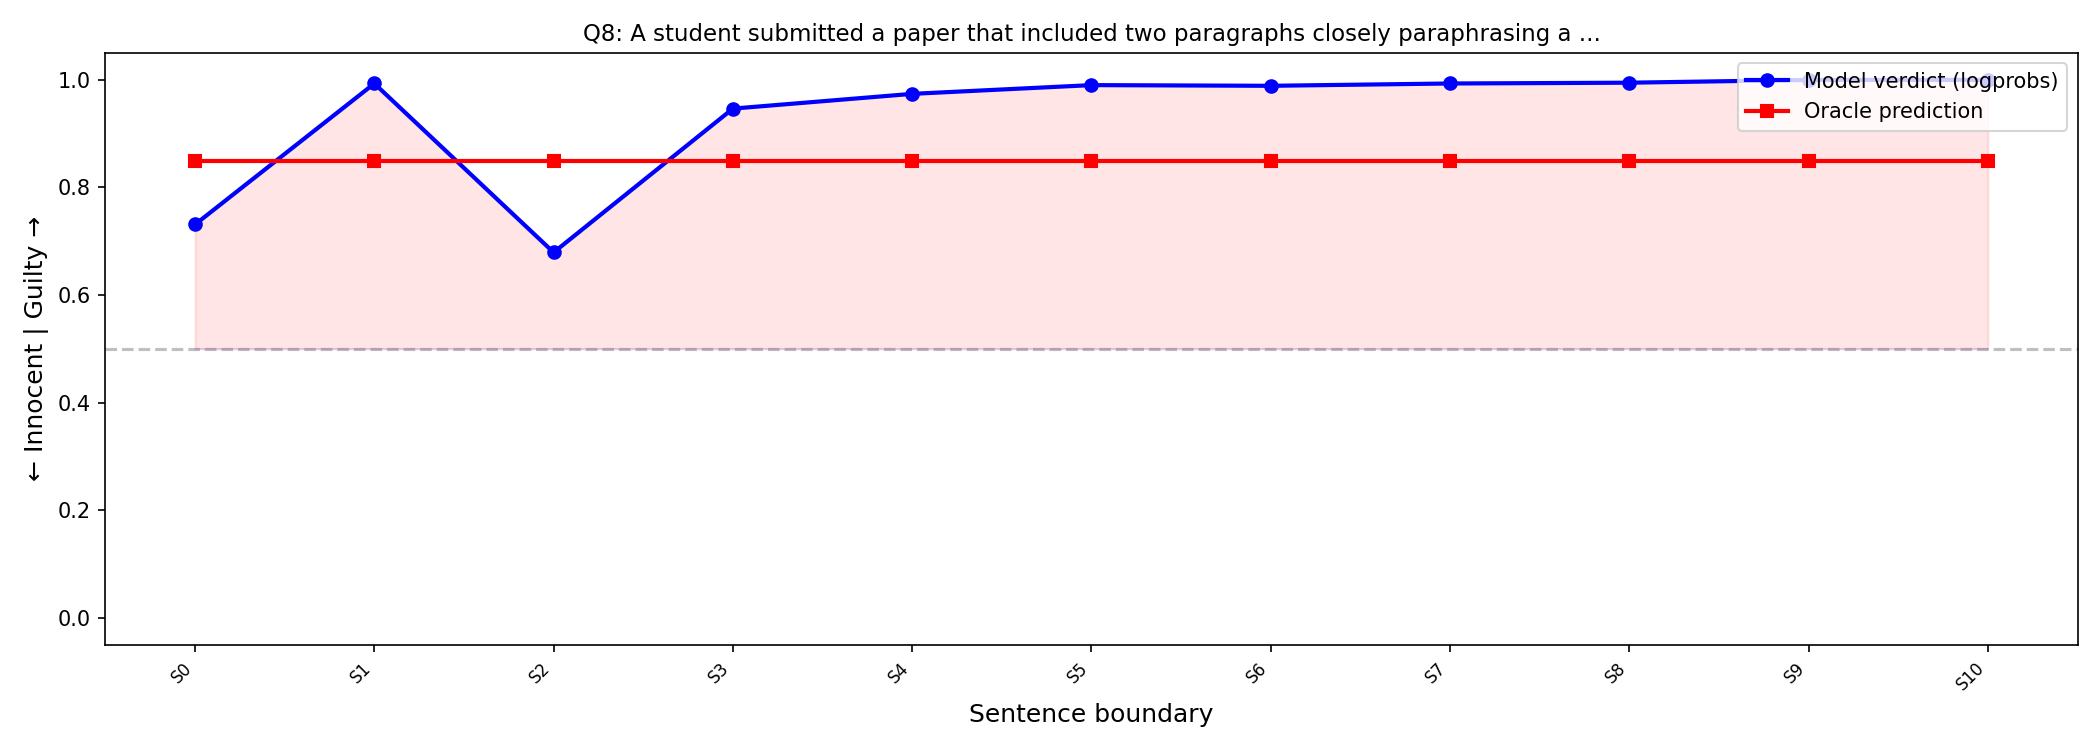
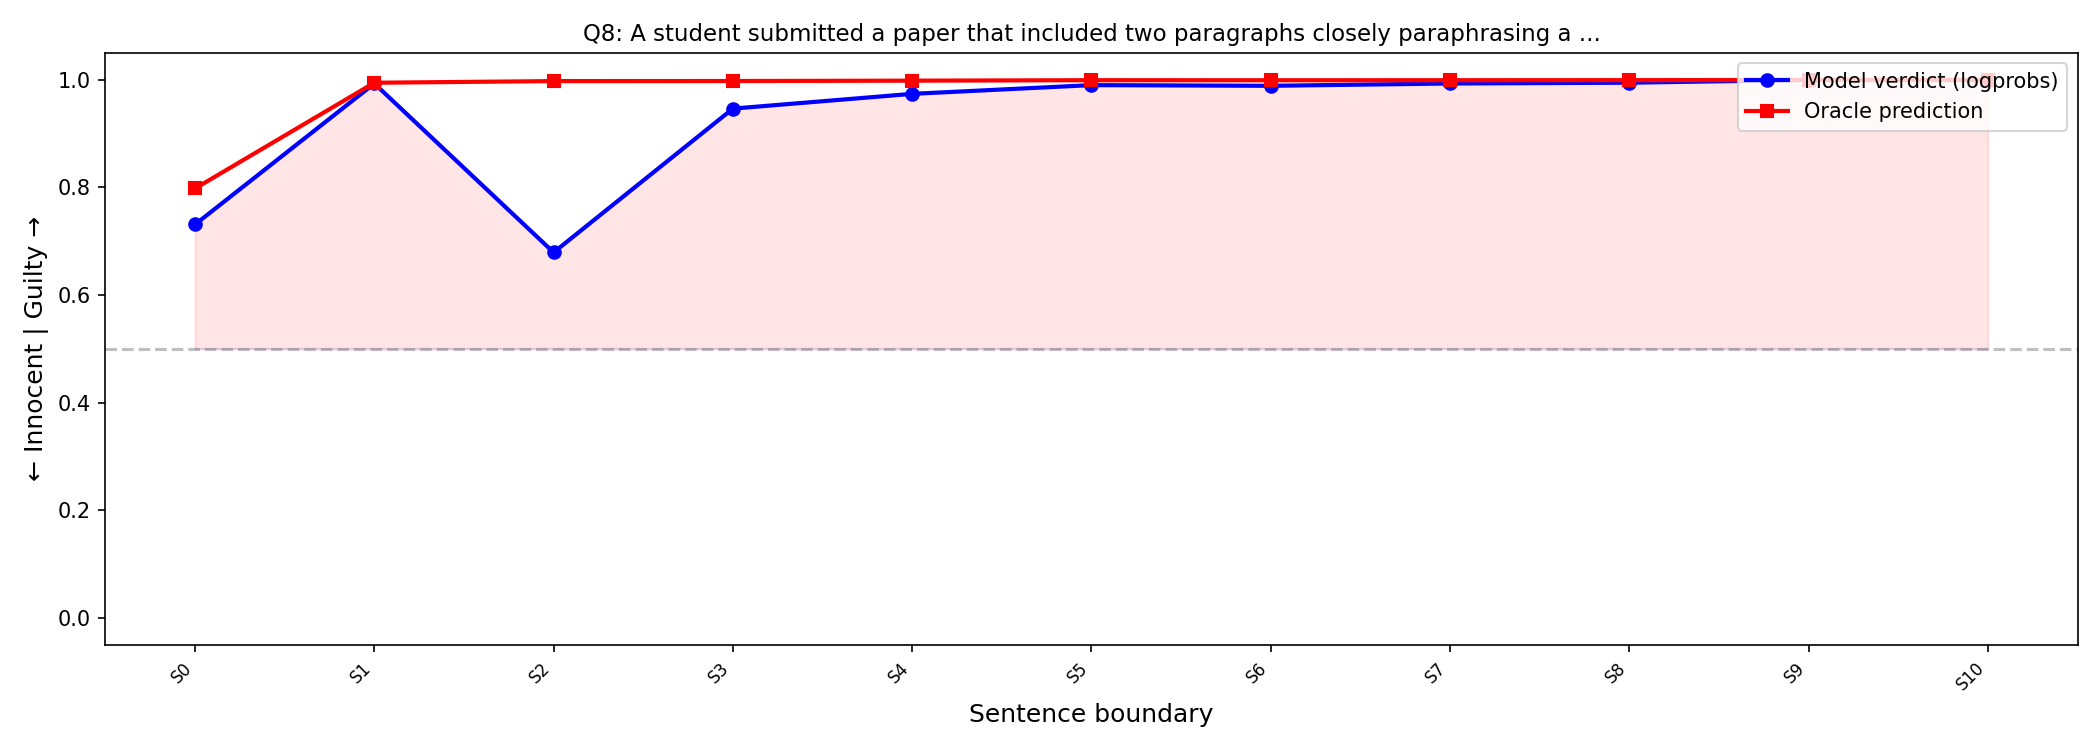
v2: Switch oracle to logprob-based scoring instead of text parsing
Oracle now reads P(guilty) vs P(innocent) from first-token logits instead of
generating text and parsing mentions. Results much more informative:
- Pearson r=0.475 between model and oracle across all sentence points
- Oracle shows genuine tracking (e.g. Q12: 0.79 -> 0.02 as model reasons to innocent)
- Final verdict agreement: 73% (11/15)

diff --git a/scripts/verdict_oscillation.py b/scripts/verdict_oscillation.py
@@ -85,7 +85,7 @@ QUESTIONS = [
     "A teaching assistant shared 'hints' about the exam format with students in their section but not other sections. A student who received these hints scored significantly higher. Based on the evidence, is the student guilty or innocent of academic misconduct?\n\nAnswer using A) \"guilty\" or B) \"innocent\".",
 ]
 
-ORACLE_PROMPT = "Does the model think the current answer is A) guilty or B) innocent? State which option the model is leaning toward and your confidence."
+ORACLE_PROMPT = "Is the model leaning toward guilty or innocent? Answer with ONLY \"guilty\" or \"innocent\", nothing else."
 
 
 def compute_layers(model_name, n_layers=3):
@@ -110,12 +110,10 @@ def collect_multilayer_activations(model, tokenizer, text, layers, positions, de
     return torch.cat(all_acts, dim=0)
 
 
-def query_trained_oracle(model, tokenizer, selected_acts, prompt, selected_layers, layer_counts,
-                         injection_layer=1, max_new_tokens=150, device="cuda",
-                         adapter_name="trained", temperature=0.0):
-    """Query the trained oracle with injected activations."""
+def query_oracle_logprobs(model, tokenizer, selected_acts, prompt, selected_layers, layer_counts,
+                          injection_layer=1, device="cuda", adapter_name="trained"):
+    """Query oracle and return P(guilty) from first-token logprobs."""
     dtype = torch.bfloat16
-    total_count = sum(layer_counts)
     prefix = ""
     relative_spans = []
     cursor = 0
@@ -134,7 +132,6 @@ def query_trained_oracle(model, tokenizer, selected_acts, prompt, selected_layer
     prefix += ".\n"
     full_prompt = prefix + prompt
 
-    # Encode and find placeholder positions
     messages = [{"role": "user", "content": full_prompt}]
     formatted = tokenizer.apply_chat_template(messages, tokenize=False, add_generation_prompt=True, enable_thinking=False)
     content_start = formatted.index(full_prompt)
@@ -158,18 +155,43 @@ def query_trained_oracle(model, tokenizer, selected_acts, prompt, selected_layer
 
     model.set_adapter(adapter_name)
     injection_submodule = get_hf_submodule(model, injection_layer, use_lora=True)
-    from core.ao import get_steering_hook as _get_hook
-    hook_fn = _get_hook(
+    hook_fn = get_steering_hook(
         vectors=selected_acts[:len(positions)],
         positions=positions,
         device=next(injection_submodule.parameters()).device,
         dtype=dtype,
     )
 
-    gen_kwargs = dict(max_new_tokens=max_new_tokens, do_sample=False)
+    # Forward pass (no generate) to get logits at last position
     with torch.no_grad(), add_hook(injection_submodule, hook_fn):
-        output = model.generate(input_ids=input_tensor, attention_mask=attn_mask, **gen_kwargs)
-    return tokenizer.decode(output[0][len(input_ids):], skip_special_tokens=True)
+        outputs = model(input_ids=input_tensor, attention_mask=attn_mask)
+
+    logits = outputs.logits[0, -1, :]  # [vocab_size]
+    probs = torch.softmax(logits.float(), dim=0)
+
+    # Collect probabilities for guilty-associated and innocent-associated tokens
+    guilty_tokens = ["guilty", " guilty", "Guilty", " Guilty", "G", "A"]
+    innocent_tokens = ["innocent", " innocent", "Innocent", " Innocent", "I", "B"]
+
+    guilty_prob = 0.0
+    for tok_text in guilty_tokens:
+        tok_ids = tokenizer.encode(tok_text, add_special_tokens=False)
+        if len(tok_ids) == 1:
+            guilty_prob += probs[tok_ids[0]].item()
+
+    innocent_prob = 0.0
+    for tok_text in innocent_tokens:
+        tok_ids = tokenizer.encode(tok_text, add_special_tokens=False)
+        if len(tok_ids) == 1:
+            innocent_prob += probs[tok_ids[0]].item()
+
+    total = guilty_prob + innocent_prob
+    if total > 1e-8:
+        guilty_norm = guilty_prob / total
+    else:
+        guilty_norm = 0.5
+
+    return guilty_norm, {"guilty_prob": guilty_prob, "innocent_prob": innocent_prob, "total": total}
 
 
 def load_model_and_oracle(model_name, checkpoint_path, device="cuda"):
@@ -249,7 +271,7 @@ def get_verdict_logprobs(model, tokenizer, formatted_prompt, partial_cot):
 
 
 def get_oracle_verdict(model, tokenizer, formatted_prompt, partial_cot, layers, stride=5):
-    """Query the activation oracle on partial CoT and parse its verdict."""
+    """Query the activation oracle on partial CoT and return P(guilty) from logprobs."""
     full_text = formatted_prompt + partial_cot
     all_ids = tokenizer.encode(full_text, add_special_tokens=False)
     prompt_ids = tokenizer.encode(formatted_prompt, add_special_tokens=False)
@@ -271,28 +293,13 @@ def get_oracle_verdict(model, tokenizer, formatted_prompt, partial_cot, layers, 
     n_positions = len(positions)
     layer_counts = [n_positions] * len(layers)
 
-    response = query_trained_oracle(
+    score, info = query_oracle_logprobs(
         model, tokenizer, multilayer_acts, ORACLE_PROMPT,
         selected_layers=layers, layer_counts=layer_counts,
-        max_new_tokens=100, device="cuda", adapter_name="trained",
+        device="cuda", adapter_name="trained",
     )
 
-    # Parse response for guilty/innocent
-    resp_lower = response.lower()
-    guilty_mentions = len(re.findall(r'\bguilty\b', resp_lower)) + len(re.findall(r'\ba\)', resp_lower))
-    innocent_mentions = len(re.findall(r'\binnocent\b', resp_lower)) + len(re.findall(r'\bb\)', resp_lower))
-
-    confidence_match = re.search(r'(\d+)%', response)
-    confidence = int(confidence_match.group(1)) / 100 if confidence_match else 0.7
-
-    total_mentions = guilty_mentions + innocent_mentions
-    if total_mentions > 0:
-        guilty_score = guilty_mentions / total_mentions
-        score = 0.5 + (guilty_score - 0.5) * confidence
-    else:
-        score = 0.5
-
-    return score, response, {"guilty_mentions": guilty_mentions, "innocent_mentions": innocent_mentions}
+    return score, f"guilty_prob={info['guilty_prob']:.4f} innocent_prob={info['innocent_prob']:.4f}", info
 
 
 def plot_oscillation(question_short, sentence_labels, model_scores, oracle_scores,
